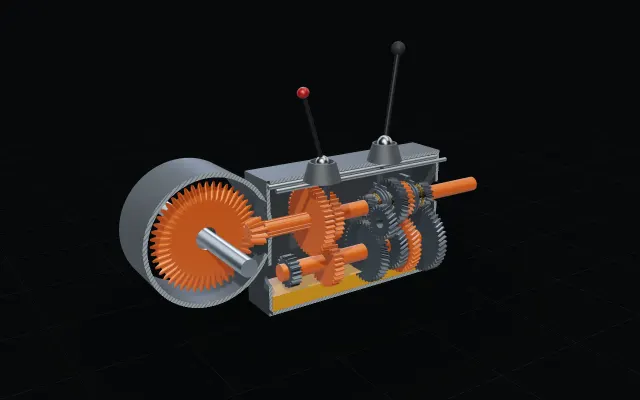
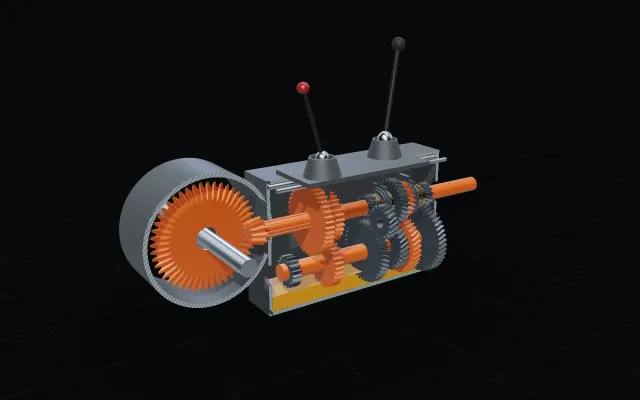
Gearbox rig: the levers stand on a shift cover instead of hanging over the cut-away casing

diff --git a/web/src/modules/powertrain/gearboxes/Scene3D.tsx b/web/src/modules/powertrain/gearboxes/Scene3D.tsx
@@ -315,7 +315,9 @@ export function GearboxScene3D() {
         </Part>
 
         <Part id="levers" name="Gear & range levers" role="moving" material="paintBlack" info={INFO.lever} cites={C.layout} explode={[0, 0.15, 0]}>
-          <group position={[0, 0.13, 0.2]}>
+          {/* the levers stand on the shift cover, which stays whole when the casing is cut open */}
+          <PartMesh geometry={g.shiftCover} material="castIron" />
+          <group position={[0, 0.142, 0.2]}>
             <PartMesh geometry={g.tower} rotation={[-PI / 2, 0, 0]} material="castIron" />
             <group ref={mainLever} position={[0, 0.05, 0]}>
               <PartMesh geometry={g.lever.ball} material="steel" />
@@ -323,7 +325,7 @@ export function GearboxScene3D() {
               <PartMesh geometry={g.lever.knob} material="plastic" />
             </group>
           </group>
-          <group position={[0.07, 0.13, 0.46]}>
+          <group position={[0.07, 0.142, 0.46]}>
             <PartMesh geometry={g.tower} rotation={[-PI / 2, 0, 0]} material="castIron" />
             <group ref={rangeLever} position={[0, 0.05, 0]} scale={[0.8, 0.7, 0.8]}>
               <PartMesh geometry={g.lever.ball} material="steel" />

diff --git a/web/src/modules/powertrain/gearboxes/geometry.ts b/web/src/modules/powertrain/gearboxes/geometry.ts
@@ -84,6 +84,8 @@ export function buildStatic() {
       ],
       32,
     ),
+    // the shift cover: the cast lid the lever towers stand on (left whole when the casing is cut open)
+    shiftCover: boxFrom([-0.045, 0.13, 0.13], [0.115, 0.142, 0.53]),
     lever: lv,
     gate: xform(box(0.09, 0.006, 0.07), mat4.t(0, 0.06, 0)),
   }
